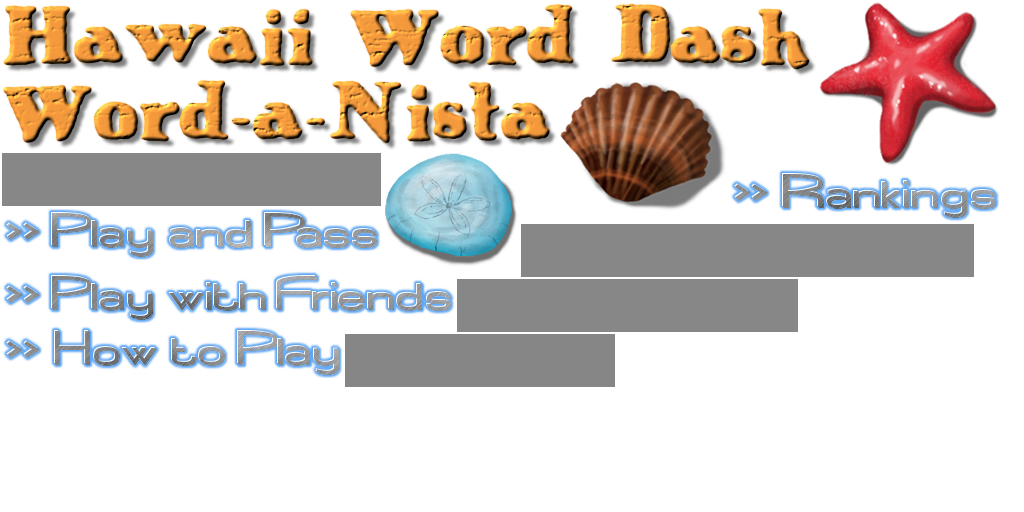
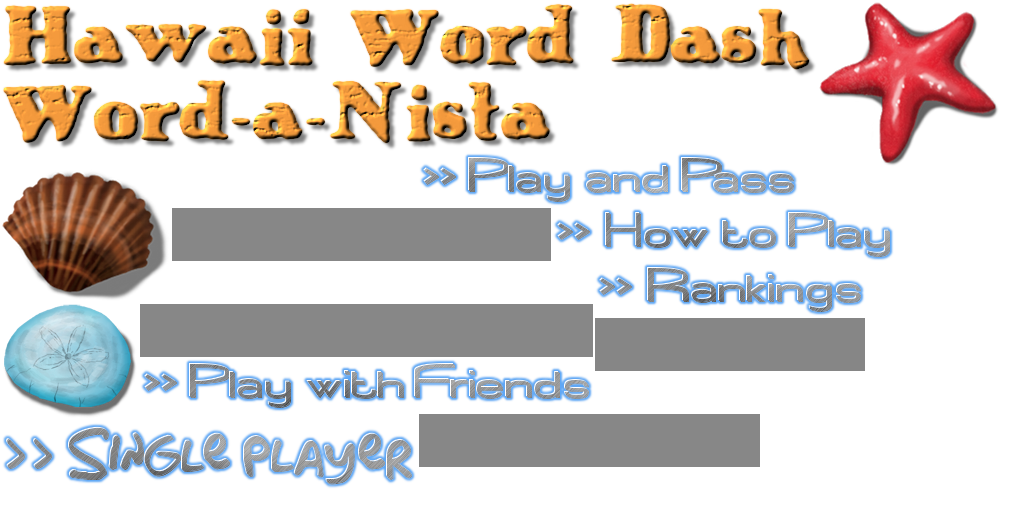
fixed some bugs in single player and added a single player option to main menu

diff --git a/Classes/SinglePlayer.mm b/Classes/SinglePlayer.mm
@@ -230,11 +230,12 @@
 	[self clearLetters];
     player1TileFlipped = NO;
     player2TileFlipped = NO;
+    tripleTabUsed = YES;
 		
 	if (player == 1 && [[player1Timer string] intValue] > 0) {
         playerTurn = 1;	
         greySolveButton1.visible = NO;
-        greySolveButton2.visible = NO;
+        greySolveButton2.visible = NO; 
         [self showLeftChecker];
         
         /*
@@ -275,8 +276,8 @@
 
 -(BOOL) stopTimer
 {
-    [self unschedule:@selector(updateTimer:)];
-    
+    [transparentBoundingBox2 stopAllActions];
+    [self unscheduleAllSelectors];    
     return TRUE;
 }
 
@@ -284,6 +285,11 @@
 {
     if (!playButtonReady) {
         [self schedule:@selector(updateTimer:) interval:1.0f];
+        [self schedule:@selector(runAI:) interval:2.0f];
+        if (playerTurn == 2) {
+            [self clearLetters];
+            [self clearCurrentAnswer];
+        }
     }
     
     return TRUE;
@@ -356,6 +362,7 @@
     if(CGRectContainsPoint(pauseMenuPlayAndPass.pauseButton.boundingBox, touchLocation) && !pauseState){
         pauseState = TRUE;
         [pauseMenuPlayAndPass showPauseMenu:self];
+        [self hideAIActivity];
     }
 	
     // FUNCTIONS ON THE PAUSE MENU                     
@@ -408,14 +415,8 @@
                     [userSelection removeObject:cell];
                     [self updateAnswer];
                 } else if (cell.letterSprite.visible && !cellSelected) {
-                    if ([self allLettersOpened] && touch.tapCount > 2) {
-                        CCLOG(@"Triple-Tap detected !!");
-                        char ch = (arc4random() % 26) + 'a';
-                        Cell *newCell = [self cellWithCharacter:ch atRow:r atCol:c];
-                        cell.letterSprite.visible = NO;
-                        newCell.letterSprite.visible = YES;
-                        [[wordMatrix objectAtIndex:r] removeObject:cell];
-                        [[wordMatrix objectAtIndex:r] insertObject:newCell atIndex:c];
+                    if ([self allLettersOpened] && touch.tapCount > 2 && !tripleTabUsed) {
+                        [self handleTripleTapWithCell:cell AtRow:r Col:c];
                     } else {
                         cell.letterSelected.visible = YES;
                         [userSelection addObject:cell];
@@ -425,11 +426,7 @@
                     if (playerTurn == 1 && !player1TileFlipped) {
                         cell.letterSprite.visible = YES;
                         player1TileFlipped = YES;
-                        if ([cell.value isEqualToString:@"A"] || 
-                            [cell.value isEqualToString:@"E"] || 
-                            [cell.value isEqualToString:@"I"] || 
-                            [cell.value isEqualToString:@"O"] || 
-                            [cell.value isEqualToString:@"U"]) {
+                        if ([self isVowel:cell.value]) {
                             [self addScore:8 toPlayer:playerTurn anchorCell:cell];
                         }
                         if ([self isThisStarPoint:cell]) {
@@ -438,11 +435,7 @@
                     } else if (playerTurn == 2 && !player2TileFlipped) {
                         cell.letterSprite.visible = YES;
                         player2TileFlipped = YES;
-                        if ([cell.value isEqualToString:@"A"] || 
-                            [cell.value isEqualToString:@"E"] || 
-                            [cell.value isEqualToString:@"I"] || 
-                            [cell.value isEqualToString:@"O"] || 
-                            [cell.value isEqualToString:@"U"]) {
+                        if ([self isVowel:cell.value]) {
                             [self addScore:8 toPlayer:playerTurn anchorCell:cell];
                         }
                         if ([self isThisStarPoint:cell]) {
@@ -461,6 +454,7 @@
 - (void) ccTouchEnded:(UITouch *) touch withEvent:(UIEvent *) event {
 }
 
+/*
 - (BOOL) allLettersOpened {
     
     for(int r = 0; r < rows; r++) {
@@ -473,10 +467,11 @@
     }
     return YES;
 }
+*/
 
  -(void) runAI:(ccTime) dt {
-    CCLOG(@"*********RUN AI*********");
-    
+     
+     CCLOG(@"*********RUN AI*********");
      
      int maxDelay = [[GameManager sharedGameManager] aiMaxWaitTime];
      

diff --git a/Classes/MainMenuLayer.mm b/Classes/MainMenuLayer.mm
@@ -74,12 +74,16 @@
         backgroundImg.position = ccp(screenSize.width/2, screenSize.height/2);
         [self addChild:backgroundImg];
         
+        singlePlayerLabel = [CCSprite spriteWithSpriteFrameName:@"singlePlayerLabel.png"];
+        singlePlayerLabel.position = ccp(120, 240);
+        [batchNode addChild:singlePlayerLabel z:7];
+        
         playAndPassLabel = [CCSprite spriteWithSpriteFrameName:@"playAndPassLable5.png"];
-        playAndPassLabel.position = ccp(screenSize.width/4, screenSize.height/1.4);
+        playAndPassLabel.position = ccp(150, 190);
         [batchNode addChild:playAndPassLabel z:7];
         
         playAndPassSelected = [CCSprite spriteWithSpriteFrameName:@"playAndPassSelected.png"];
-        playAndPassSelected.position = ccp(screenSize.width/4, screenSize.height/1.4);
+        playAndPassSelected.position = ccp(150, 190);
         playAndPassSelected.visible = NO;
         [batchNode addChild:playAndPassSelected];
         
@@ -100,11 +104,11 @@
         playWithFriendsLabel = [CCSprite spriteWithSpriteFrameName:@"playWithFriendsLabel5.png"];
         //position with img
         //playWithFriendsLabel.position = ccp(screenSize.width/1.5, screenSize.height/1.6);
-        playWithFriendsLabel.position = ccp(screenSize.width/2.5, screenSize.height/2);
+        playWithFriendsLabel.position = ccp(180, 140);
         [batchNode addChild:playWithFriendsLabel z:7];
         
         playWithFriendsSelected = [CCSprite spriteWithSpriteFrameName:@"playWithFriendsSelected.png"];
-        playWithFriendsSelected.position = ccp(screenSize.width/2.5, screenSize.height/2);
+        playWithFriendsSelected.position = ccp(180, 140);
         playWithFriendsSelected.visible = NO;
         [batchNode addChild:playWithFriendsSelected];
         
@@ -124,11 +128,11 @@
         
         howToPlayImg = [CCSprite spriteWithSpriteFrameName:@"howToPlay5.png"];
         //howToPlayImg.position = ccp(screenSize.width/1.5, screenSize.height/5);
-        howToPlayImg.position = ccp(screenSize.width/1.5, screenSize.height/3.2);
+        howToPlayImg.position = ccp(300, 90);
         [batchNode addChild:howToPlayImg z:7];
         
         howToPlaySelected = [CCSprite spriteWithSpriteFrameName:@"howToPlaySelected.png"];
-        howToPlaySelected.position = ccp(screenSize.width/1.5, screenSize.height/3.2);
+        howToPlaySelected.position = ccp(300, 90);
         howToPlaySelected.visible = NO;
         [batchNode addChild:howToPlaySelected];
         
@@ -147,7 +151,7 @@
         [batchNode addChild:redStarFish z:3];
         
         CCSprite *brownShellFish = [CCSprite spriteWithSpriteFrameName:@"BrownShell.png"];
-        brownShellFish.position = ccp(screenSize.width/1.7, screenSize.height/1.6);
+        brownShellFish.position = ccp(screenSize.width/1.4, screenSize.height/1.6);
         [batchNode addChild:brownShellFish z:3];
         
         CCSprite *blueSandDollarImg = [CCSprite spriteWithSpriteFrameName:@"blueSandDollar.png"];
@@ -196,6 +200,8 @@
     if (CGRectContainsPoint(playWithFriendsLabel.boundingBox, touchLocation)) {
         playWithFriendsSelected.visible = NO;
         //[self showActionSheet];
+        [self displayMultiPlayer];
+    } else if (CGRectContainsPoint(singlePlayerLabel.boundingBox, touchLocation)) {
         [self displaySinglePlayer];
     } else if (CGRectContainsPoint(playAndPassLabel.boundingBox, touchLocation)) {
         playAndPassSelected.visible = NO;
@@ -223,8 +229,7 @@
         [self displayHowToPlay];
     } else if (CGRectContainsPoint(rankingsImg.boundingBox, touchLocation)) {
         rankingsSelected.visible = NO;
-        //[self displayRanking];
-        [self displayMultiPlayer];
+        [self displayRanking];
     }
 }
 

diff --git a/Classes/PlayAndPass.m b/Classes/PlayAndPass.m
@@ -115,18 +115,18 @@
 					[userSelection removeObject:cell];
 					[self updateAnswer];
 				} else if (cell.letterSprite.visible && !cellSelected) {
-					cell.letterSelected.visible = YES;
-					[userSelection addObject:cell];
-					[self updateAnswer];
+                    if ([self allLettersOpened] && touch.tapCount > 2 && !tripleTabUsed) {
+                        [self handleTripleTapWithCell:cell AtRow:r Col:c];
+                    } else {
+                        cell.letterSelected.visible = YES;
+                        [userSelection addObject:cell];
+                        [self updateAnswer];
+                    }
 				} else {
 					if (playerTurn == 1 && !player1TileFlipped) {
 						cell.letterSprite.visible = YES;
 						player1TileFlipped = YES;
-						if ([cell.value isEqualToString:@"A"] || 
-							[cell.value isEqualToString:@"E"] || 
-							[cell.value isEqualToString:@"I"] || 
-							[cell.value isEqualToString:@"O"] || 
-							[cell.value isEqualToString:@"U"]) {
+						if ([self isVowel:cell.value]) {
 							[self addScore:8 toPlayer:playerTurn anchorCell:cell];
 						}
 						if ([self isThisStarPoint:cell]) {
@@ -135,11 +135,7 @@
 					} else if (playerTurn == 2 && !player2TileFlipped) {
 						cell.letterSprite.visible = YES;
 						player2TileFlipped = YES;
-						if ([cell.value isEqualToString:@"A"] || 
-							[cell.value isEqualToString:@"E"] || 
-							[cell.value isEqualToString:@"I"] || 
-							[cell.value isEqualToString:@"O"] || 
-							[cell.value isEqualToString:@"U"]) {
+						if ([self isVowel:cell.value]) {
 							[self addScore:8 toPlayer:playerTurn anchorCell:cell];
 						}
 						if ([self isThisStarPoint:cell]) {

diff --git a/Classes/WordGame.m b/Classes/WordGame.m
@@ -69,6 +69,7 @@
         playButtonReady = NO;
         tapToNameLeftActive = NO;
         tapToNameRightActive = NO;
+        tripleTabUsed = NO;
         
         self.isTouchEnabled = YES;
 		
@@ -454,6 +455,7 @@
 	[self clearLetters];
     player1TileFlipped = NO;
     player2TileFlipped = NO;
+    tripleTabUsed = NO;
     
     NSString *turnMessage;
     
@@ -588,10 +590,8 @@
 	currentStarPoints = 8;
 	[foundWords removeAllObjects];
 	[starPoints removeAllObjects];
-    //[player1Timer setString:@"60"];
-	//[player2Timer setString:@"60"];
-    [player1Timer setString:@"20"];
-	[player2Timer setString:@"20"];
+    [player1Timer setString:@"60"];
+	[player2Timer setString:@"60"];
 	[player1Score setString:@"0"];
 	[player2Score setString:@"0"];
 	[currentAnswer setString:@" "];
@@ -730,6 +730,17 @@
 	
     self.playButton.visible = YES;
 	[self startGame];
+}
+
+- (void) handleTripleTapWithCell:(Cell *) cell AtRow:(int)r Col:(int)c {
+    CCLOG(@"Triple-Tap detected !!");
+    char ch = (arc4random() % 26) + 'a';
+    Cell *newCell = [self cellWithCharacter:ch atRow:r atCol:c];
+    cell.letterSprite.visible = NO;
+    newCell.letterSprite.visible = YES;
+    [[wordMatrix objectAtIndex:r] removeObject:cell];
+    [[wordMatrix objectAtIndex:r] insertObject:newCell atIndex:c];
+    tripleTabUsed = YES;
 }
 
 - (Cell*) cellWithCharacter:(char) ch atRow:(int) r atCol:(int) c {

diff --git a/Classes/WordGame.h b/Classes/WordGame.h
@@ -78,6 +78,7 @@
     BOOL tapToNameLeftActive;
     CCSprite *_leftSideBackground;
     CCSprite *_rightSideBackground;
+    BOOL tripleTabUsed;
 }
 
 @property int cols;
@@ -121,4 +122,6 @@
 - (void) showRightChecker;
 - (void) hideLeftChecker;
 - (void) hideRightChecker;
+- (void) handleTripleTapWithCell:(Cell *) cell AtRow:(int) r Col:(int) c;
+- (BOOL) allLettersOpened;
 @end

diff --git a/Classes/MainMenuLayer.h b/Classes/MainMenuLayer.h
@@ -21,6 +21,7 @@
     CCSprite *rankingsImg;
     CCSprite *playWithFriendsLabel;
     CCSprite *playAndPassLabel;
+    CCSprite *singlePlayerLabel;
     CCSprite *rankingsSelected;
     CCSprite *playAndPassSelected;
     CCSprite *playWithFriendsSelected;
